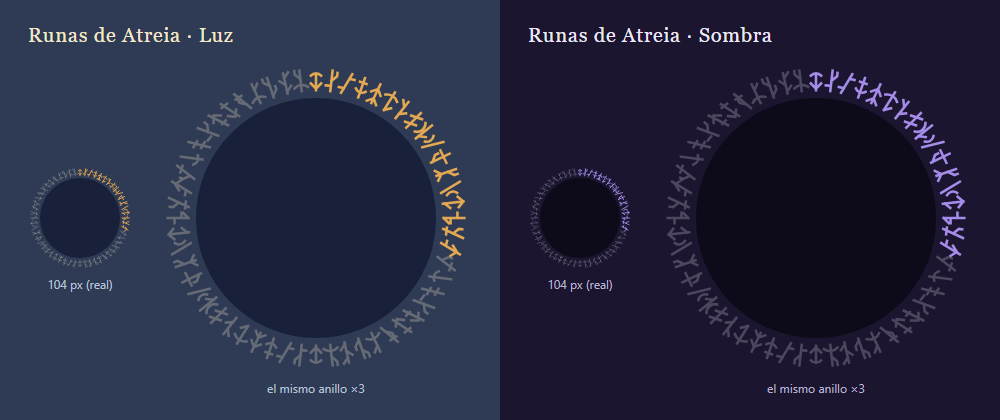
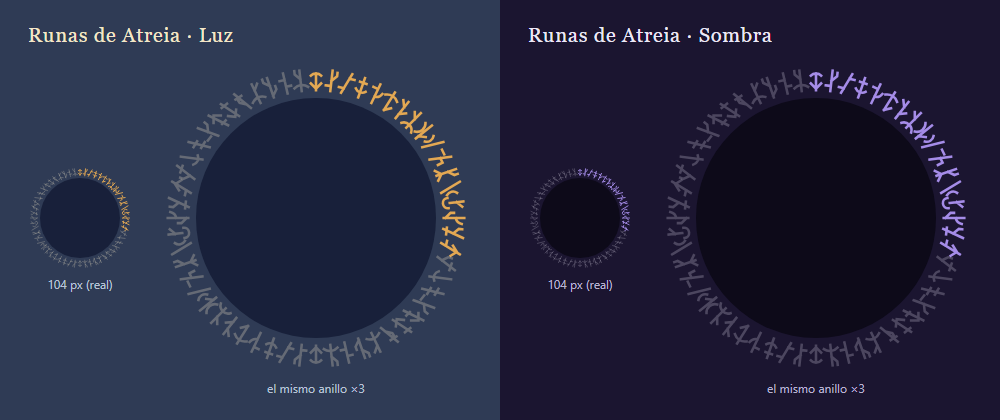
fix(runas): redibuja ondo, ceda, rina, zael, fael y tarn (sin parecido a Futhark, letras ni símbolos)

diff --git a/runes.js b/runes.js
@@ -28,17 +28,17 @@ export const RUNE_GLYPHS = Object.freeze([
   { name: 'dren', d: 'M5 1L5 13 M5 7L8 4L8 2 M2 10L5 10' },
   { name: 'vor', d: 'M3 13L7 1 M6 4L9 4 M1 10L4 10' },
   { name: 'sila', d: 'M5 1L5 13 M3 4L7 4 M2 8.5A4 4 0 0 0 8 8.5' },
-  { name: 'tarn', d: 'M5 1L5 13 M2 7L5 4L8 7 M2 13L5 10L8 13' },
+  { name: 'tarn', d: 'M5 1L5 13 M5 9A4.5 4.5 0 0 0 8.5 5.5 M2 4L5 4' },
   { name: 'nimo', d: 'M5 1L5 13 M1 5A6 6 0 0 1 9 5 M5 13L8 10' },
   { name: 'oru', d: 'M5 1L5 13 M5 5L2 2 M5 10L8 7' },
-  { name: 'ceda', d: 'M5 1L5 13 M2 6L8 3 M2 11L8 8' },
+  { name: 'ceda', d: 'M5 1L5 13 M1 13A4.5 4.5 0 0 1 9 13 M5 6L2 3' },
   { name: 'lume', d: 'M5 1L5 13 M1.5 3A5 5 0 0 1 1.5 11 M5 11L8 8' },
   { name: 'bran', d: 'M3 13L7 1 M1 4A4 4 0 0 1 1 10' },
-  { name: 'zael', d: 'M5 1L5 13 M1 5L9 5 M5 12L2 9L2 7' },
+  { name: 'zael', d: 'M3 13L7 1 M5 7L8 7L8 10 M1 4L4 4' },
   { name: 'eto', d: 'M5 1L5 13 M5 6L8 3L8 1 M2 13L5 10L8 13' },
   { name: 'mira', d: 'M3 1L7 13 M9 4A4 4 0 0 0 9 10' },
-  { name: 'ondo', d: 'M5 1L5 13 M2 4L5 1L8 4 M5 12L8 9' },
-  { name: 'fael', d: 'M5 1L5 13 M2 5L5 5 M5 9L8 9 M5 13L8 10' },
+  { name: 'ondo', d: 'M5 1L5 9 M2 10A3 3 0 0 0 8 10 M5 5L8 2' },
+  { name: 'fael', d: 'M5 1L5 13 M5 6A4.5 4.5 0 0 0 8.5 2.5 M5 12L2 9L2 7' },
   { name: 'garo', d: 'M3 13L7 1 M5 7L2 4L2 2 M2 11L6 11' },
   { name: 'hela', d: 'M3 13L7 1 M3 6L6 3L9 6 M1 10L4 10' },
   { name: 'iru', d: 'M3 13L7 1 M4 4L8 4 M4 10L1 7L1 5' },
@@ -50,7 +50,7 @@ export const RUNE_GLYPHS = Object.freeze([
   { name: 'osti', d: 'M3 1L7 13 M2 4L6 4 M6 10L3 7L3 5' },
   { name: 'pael', d: 'M5 1L5 13 M1 11A6 6 0 0 1 9 11 M5 5L8 2' },
   { name: 'quen', d: 'M5 1L5 13 M5 6L2 3L2 1 M5 12L8 9L8 7' },
-  { name: 'rina', d: 'M5 1L5 13 M5 4L8 1 M5 8L2 5 M5 12L8 9' },
+  { name: 'rina', d: 'M5 1L5 13 M2 5L5 5 M5 9L8 9' },
   { name: 'suel', d: 'M5 1L5 13 M1 11A6 6 0 0 1 9 11 M5 6L2 3L2 1' },
 ]);
 
